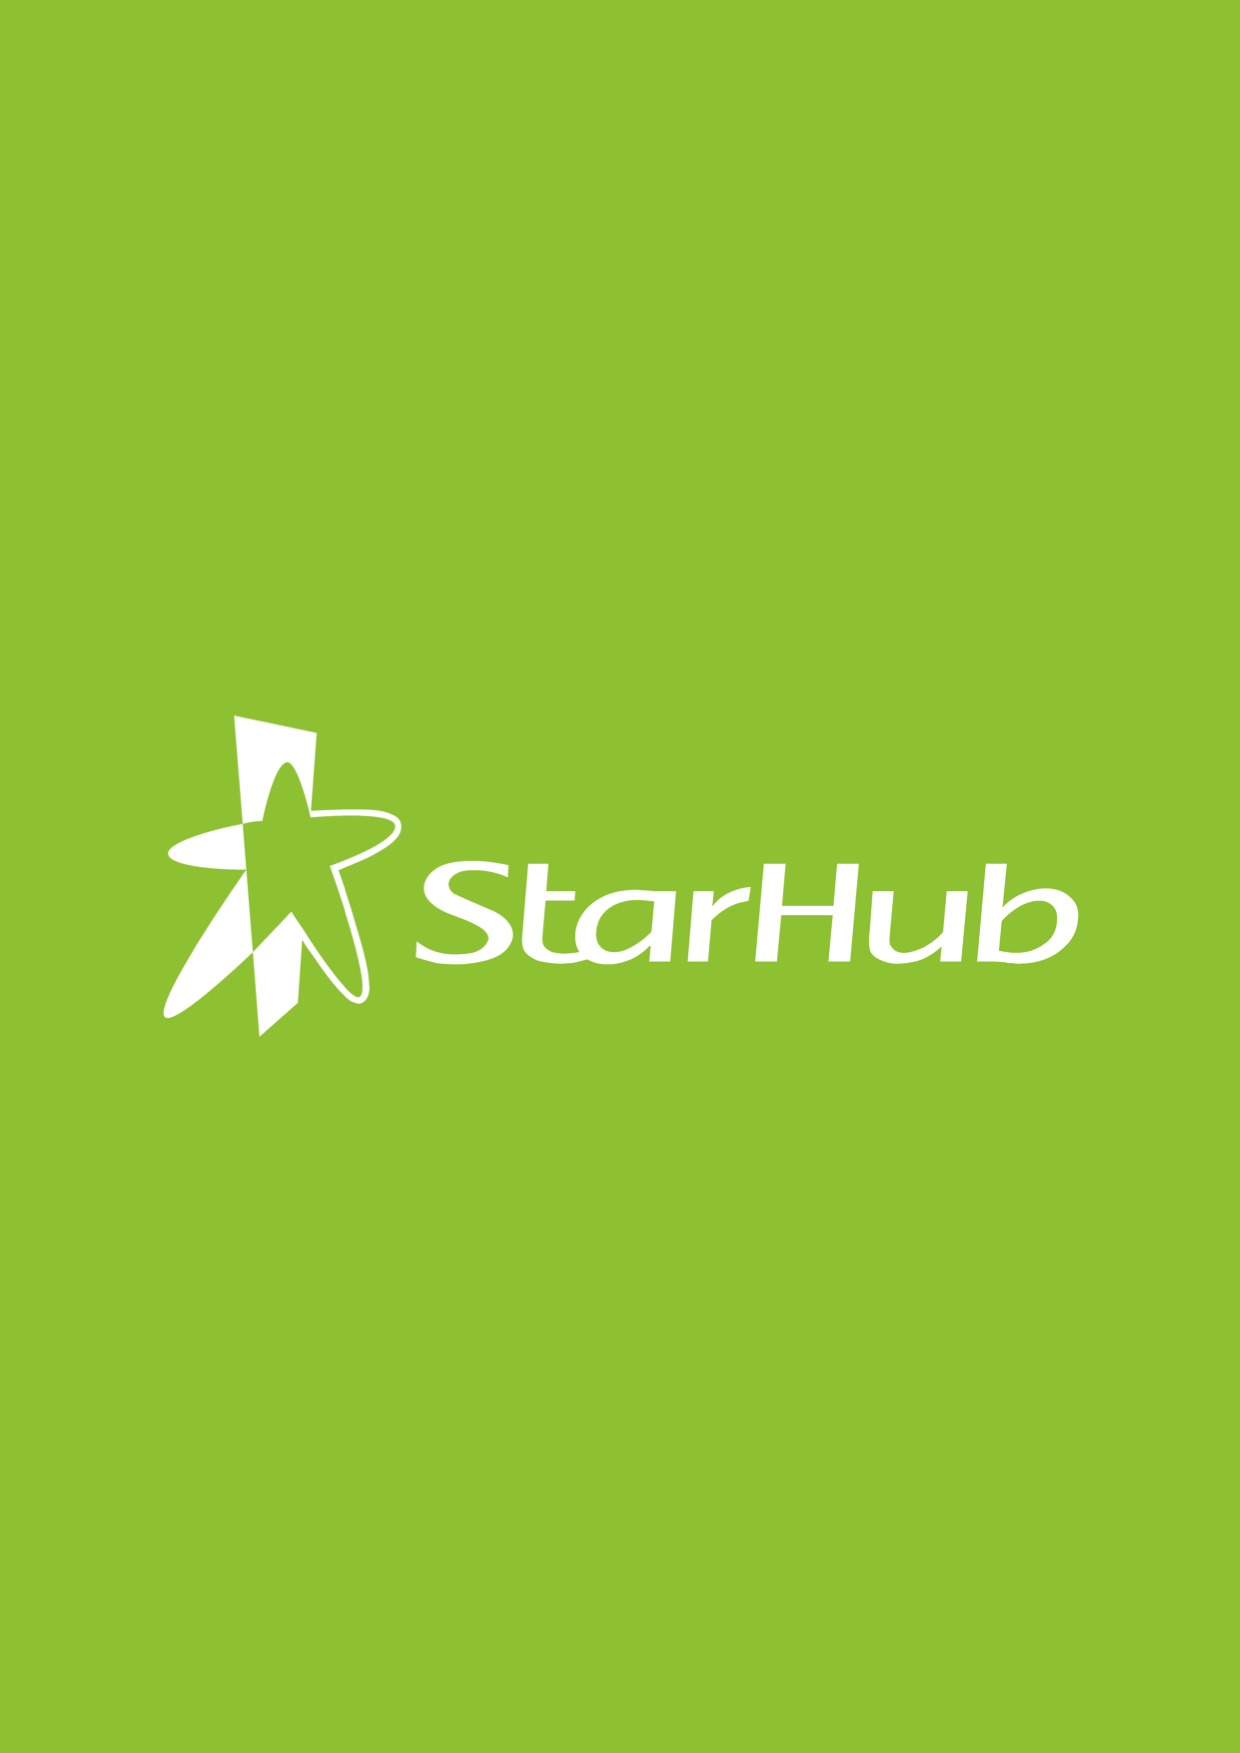
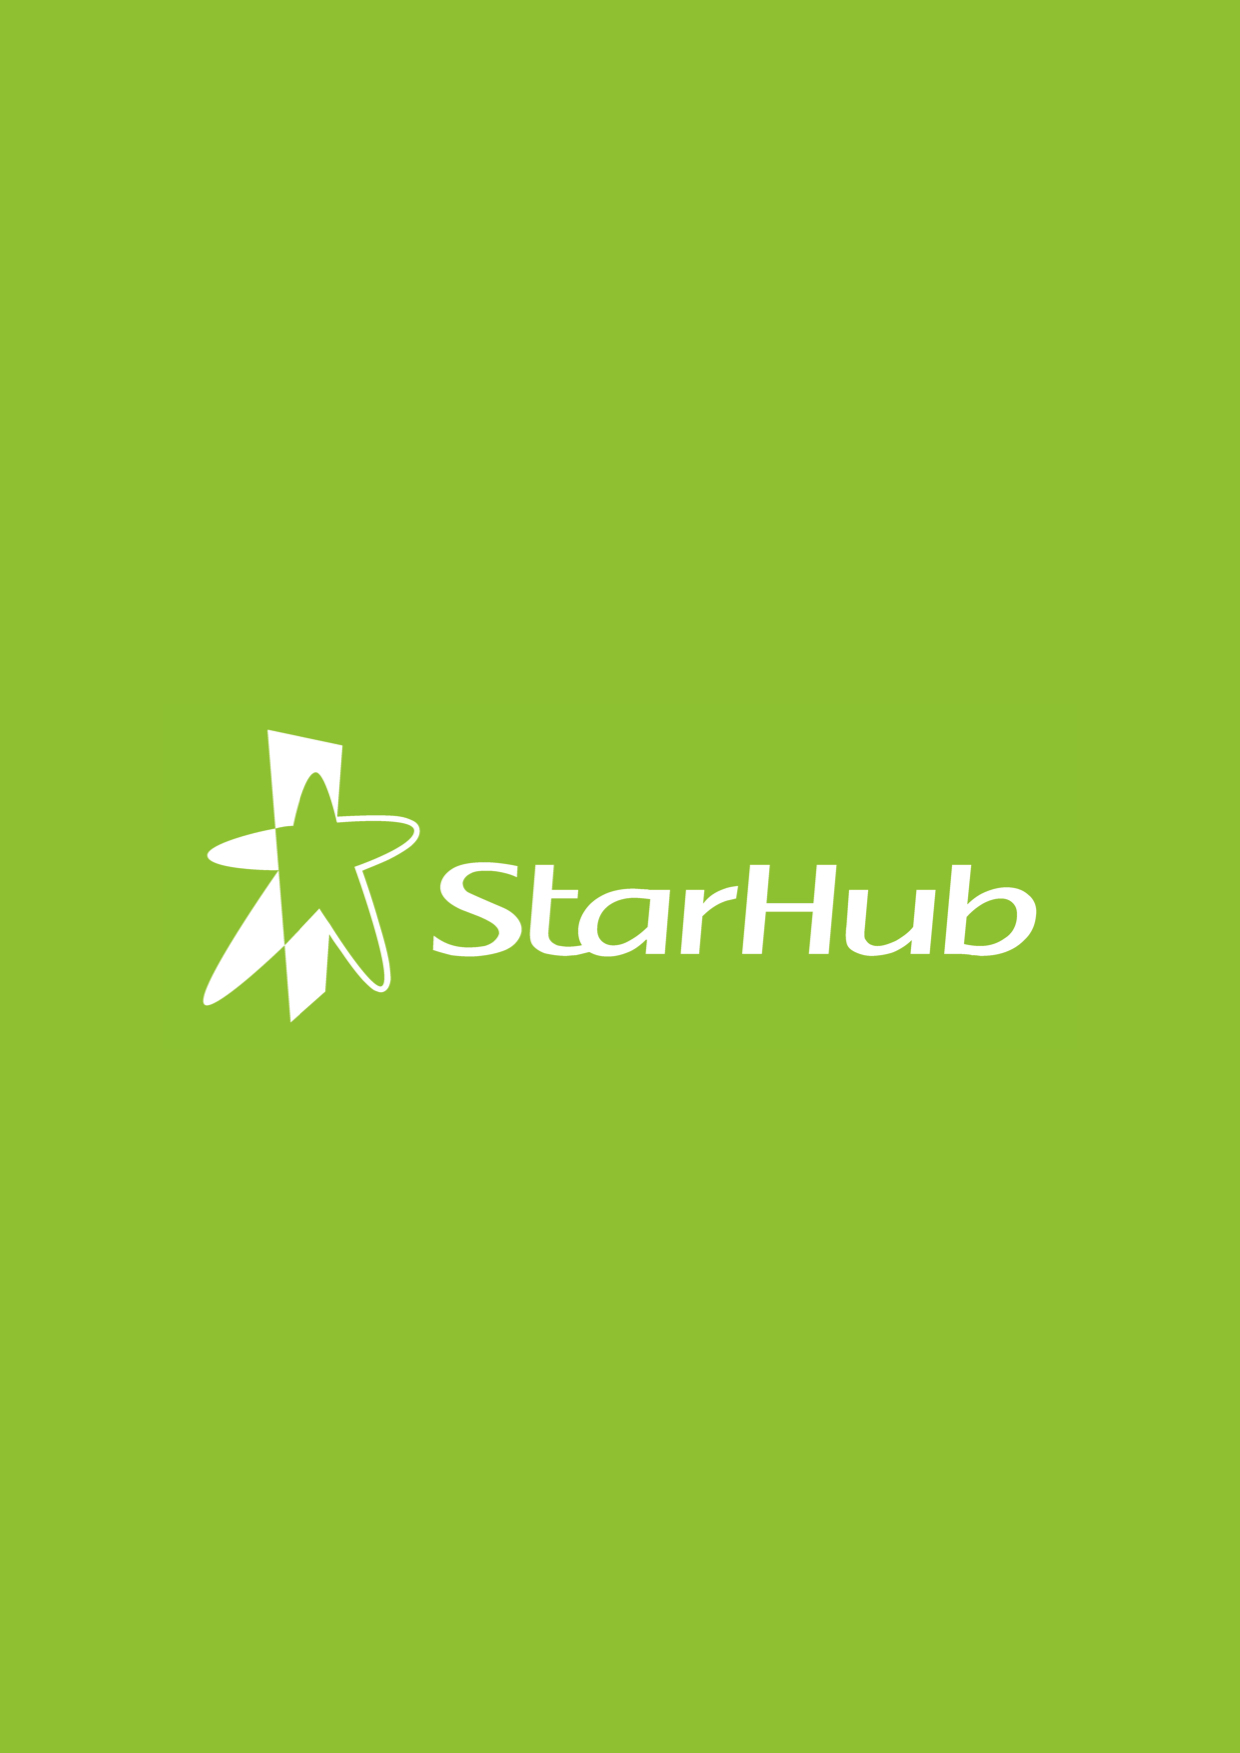
Design update

Changed region(s): [[0.1226, 0.4005, 0.8887, 0.5853]]

diff --git a/internship.html b/internship.html
@@ -112,17 +112,13 @@
 			<ul class="seq-canvas">
 				<li class="step1 seq-in">
 					<div data-seq class="seq-feature seq-half">
-						<div style="background: url(images/SE.jpg) no-repeat 50% 50%; background-size:100%; "></div>
+						<div style="background: url(images/SE.jpg) no-repeat 50% 50%; background-size:100%;"></div>
 					</div>
+					<div class="tooltip"><span class="tooltiptext">Schneider Electric SE is a French multinational corporation that specializes in energy management and automation solutions, spanning hardware, software, and services.</span></div>
 					<div data-seq class="seq-content seq-half seq-valign">
-						<div class="date-content">
-							<div class="date-margin">
-								<i style="color:black" class="fa fa-calendar fa-5x" aria-hidden="true"></i>
-								<h3><br>MAY 2017 - JULY 2017</h3>
-								<i style="color:black;"><br><br>Schneider Electric SE is a French multinational corporation that specializes in energy management and automation solutions, spanning hardware, software, and services.</i>
-							</div>
-						</div>
 						<div class="seq-ncontent"> 
+							<i style="color:black;display:block;text-align:center" class="fa fa-calendar fa-5x" aria-hidden="true"></i>
+							<h3 style="display:block;text-align:center"><br>MAY 2017 - JULY 2017<br><br></h3><hr><br><br>
 							<p>
 								<ul class="featureList">
 									<li class="tick">Hands on real-life data and building a Tableau marketing dashboard from scratch. Picked up the basics within a week and completed the dashboard within the next two.</li><br><br>
@@ -135,31 +131,27 @@
 				</li>
 				<li class="step2">
 					<div data-seq class="seq-feature seq-half seq-half-right">
-						<div style="background: url(images/starhub.jpg) no-repeat 50% 50%; background-size:100%; background-color: #85BF3D;"></div>
+						<div style="background: url(images/starhub.jpg) no-repeat 50% 50%; background-size:100%;"></div>
 					</div>
-					<div data-seq class="seq-content seq-half seq-half-left seq-valign">
-						<div class="date-content">
-							<div class="date-margin">
-								<i style="color:black" class="fa fa-calendar fa-5x" aria-hidden="true"></i>
-								<h3><br>MAY 2016 - JULY 2016</h3>
-								<i style="color:black"><br><br>StarHub is Singapore's fully-integrated info-communications company, offering a full range of information, communications and entertainment services.</i>
-							</div>
-						</div>
+					<div class="tooltip"><span class="tooltiptext">StarHub is Singapore's fully-integrated info-communications company, offering a full range of information, communications and entertainment services.</span></div>
+					<div data-seq class="seq-content seq-half seq-half-left seq-valign"> 
 						<div class="seq-ncontent"> 
+							<i style="color:black;display:block;text-align:center" class="fa fa-calendar fa-5x" aria-hidden="true"></i>
+							<h3 style="display:block;text-align:center"><br>MAY 2016 - JULY 2016<br><br></h3><hr><br><br>
 							<p>
 								<ul class="featureList">
 									<li class="tick">Exposed to Apache Spark, an open-source cluster-computing framework. To run my SQL script on the platform, I had to master a new programming language, Scala.</li><br><br>
 									<li class="tick">Assist with unit testing as well as load testing via Locust UI scripted with Python. Development was done with Postman software.</li>
-									</ul>
-								</p>
-							</div>
+								</ul>
+							</p>
 						</div>
-					</li>
-				</ul>
-			</div>
+					</div>
+				</li>
+			</ul>
 		</div>
-		<script src="js/Sequence/hammer.min.js"></script>
-		<script src="js/Sequence/sequence.min.js"></script>
-		<script src="js/Sequence/sequence-theme.two-up.js"></script>
-	</body>
-	</html> 
+	</div>
+	<script src="js/Sequence/hammer.min.js"></script>
+	<script src="js/Sequence/sequence.min.js"></script>
+	<script src="js/Sequence/sequence-theme.two-up.js"></script>
+</body>
+</html> 

diff --git a/css/style.css b/css/style.css
@@ -140,7 +140,7 @@ p.site-description{margin: 0;font-size: 16px;}
 
 /* ---content-box--- */
 .content-box {margin: 35px 0;}
-.content-box .wrap-box {padding: 20px auto; position:relative; margin-bottom:5%;margin-top:5%;}
+.content-box .wrap-box {padding: 20px auto;}
 
 .box-text{padding: 48px;}
 .box-text2{padding: 48px;}
@@ -154,7 +154,7 @@ p.site-description{margin: 0;font-size: 16px;}
 
 .content-box .content{margin-bottom: 20px;}
 
-.content-box.box-image-1{background:#fff url(../images/index_pic.jpg) no-repeat 1% 65%; color: #333; height: 100%; background-size:58%;}
+.content-box.box-image-1{background:#fff url(../images/index_pic.jpg) no-repeat 1% 65%; color: #333; max-height: 700px; background-size:54%;}
 .content-box.box-image-2{background: url(../images/bg-5.jpg) 50% 50% no-repeat;color:#fff;position: relative; background-size:cover}
 .content-box.box-image-2:before {content:"";display: block;height: 100%;position: absolute;top: 0;left: 0;width: 100%;visibility: visible;background-color: rgba(0, 0, 0, .8);}
 
@@ -163,7 +163,7 @@ p.site-description{margin: 0;font-size: 16px;}
 .content-box .bg-4{background: rgba(255, 255, 255, .85);}
 .content-box.bg-2-2{background:grey;}
 
-.content-box.box-1 {font-family: 'Roboto', sans-serif;margin-top:0vh; margin-bottom:0vh;}
+.content-box.box-1 {font-family: 'Roboto', sans-serif;margin-top:40%;transform: translateY(-50%);}
 .content-box.box-1 .box-text{padding: 200px 0 145px 100px; position: relative;}
 .content-box.box-1 h2{font-size: 44px;color: #B81D18;line-height: 1;margin: 45px 0 15px 0px;font-weight: 300;}
 .content-box.box-1 span{font-size: 46px;font-weight: 300;color: #333;display: block;margin-bottom: 20px;margin-top:60px;text-indent: -5px}
@@ -841,7 +841,7 @@ i.fa-instagram{
 }
 
 .contactBG {
-	background:url(../images/data.jpg) no-repeat 50% 50%; 
+	background:url() no-repeat 50% 90%; 
 	background-size: 100%;
 	position:relative;
 	height:50vh;
@@ -861,9 +861,9 @@ i.fa-instagram{
 .contactImg {
 	width: 310px;
 	height: 100%;
-	border-right: 1px solid black;
-	background: url(../images/profile_pic.png) 50% 50% no-repeat;
-	background-size: 105%;
+	border-right: 1px dashed black;
+	background: url(../images/yang1.jpg) 10% 0% no-repeat;
+	background-size: 80%;
 	position: relative;
 	display: inline-block;
 	float: left;
@@ -875,8 +875,8 @@ i.fa-instagram{
 	width: 395px;
 	height: 135px;
 	left: 50px;
-	border-bottom: 2px solid #F0F0F0;
-	font-size: 24px;
+	border-bottom: 1px solid #F0F0F0;
+	font-size: 30px;
 	line-height: 1;
 	padding: 60px 0 0 15px;
 	float: left;
@@ -1036,4 +1036,44 @@ h2.double:after {
 .featureList li.cross:before {
   content: "\2717";
   color: crimson;
+}
+
+.tooltip {
+    position: fixed;
+    display: inline-block;
+    color: black;
+    top: 40%;
+    right: 0%;
+    width: 50%;
+    height: 160px;
+}
+
+.tooltip .tooltiptext {
+    visibility: hidden;
+    width: 100%;
+    background-color: black;
+    color: #fff;
+    text-align: center;
+    border-radius: 6px;
+    padding: 5px;
+    position: absolute;
+    z-index: 1;
+    top: 150%;
+    left: 0%;
+}
+
+.tooltip .tooltiptext::after {
+    content: "";
+    position: absolute;
+    bottom: 100%;
+    left: 50%;
+    margin-left: -5px;
+    border-width: 5px;
+    border-style: solid;
+    border-color: transparent transparent black transparent;
+}
+
+.tooltip:hover .tooltiptext {
+	cursor: pointer;
+    visibility: visible;
 }

diff --git a/contact.html b/contact.html
@@ -29,7 +29,7 @@
     <link rel="shortcut icon" type="image/x-cion" href="images/favicon.ico"/>
     
     <style>
-    	body{background:#E7E7E7} body,html{overflow:hidden}
+    	body{background:url("images/lights.jpg") 0% 0% no-repeat} body,html{overflow:hidden}
     </style>
 </head>
 
@@ -38,7 +38,7 @@
 	<div class="contactBG"></div>
 	<div class="wrap-body">
 		<div class="button">
-			<a class="btn-white btn-open" href="#"></a>
+			<a class="btn-open" href="#"></a>
 		</div>
 		<header> 
 			<div class="overlay">
@@ -87,7 +87,7 @@
 		</div>
 		<div class="contactText">
 			<p><span style="color:black;font-weight:bold">Age:</span><span style="margin-left:35px">23</span></p>
-			<p><span style="color:black;font-weight:bold">Email:</span><span style="margin-left:23px"><a href="mailto:E0003393@u.nus.edu?Subject=General%20Enquiry%20[NOC]" style="color:#0303D2">tanqyang@gmail.com</a></span></p>
+			<p><span style="color:black;font-weight:bold">Email:</span><span style="margin-left:23px"><a href="mailto:tanqyang@gmail.com?Subject=General%20Enquiry%20[NOC]" style="color:#0303D2">tanqyang@gmail.com</a></span></p>
 			<p><span style="color:black;font-weight:bold">Phone:</span><span style="margin-left:16px">(+65) 96787183</span></p>
 			<p>
 				<span style="color:black;font-weight:bold">Skype:</span>

diff --git a/css/Sequence/sequence-theme.two-up.css b/css/Sequence/sequence-theme.two-up.css
@@ -308,12 +308,12 @@ body {
   margin: 0 auto;
   left: 0;
   right: 0;  
-  height: 380px;
-  border-bottom: 3px solid #F0F0F0;
+  height: 320px;
+  border-bottom: 3px dashed #F0F0F0;
 }
 
 .date-margin {
-  margin-top:10%;
+  margin-top:12%;
 }
 
 .seq .seq-content h3 {
@@ -333,6 +333,7 @@ body {
   width: 75%;
   left: 10%;
   top: 50%;
+  transform: translateY(-50%);
 }
 
 .seq .seq-content > div {

diff --git a/index.html b/index.html
@@ -81,7 +81,7 @@
 			<div class="wrap-container zerogrid">
 				<!-----------------content-box-1-------------------->
 				<section class="content-box box-1 box-image-1">
-					<div class="row wrap-box"><!--Start Box-->
+					<div class="row"><!--Start Box-->
 						<div class="col-1-2" style="float:right">
 							<div class="box-text">
 								<p class="lead animated fadeInLeft">Hello! I am</p>
